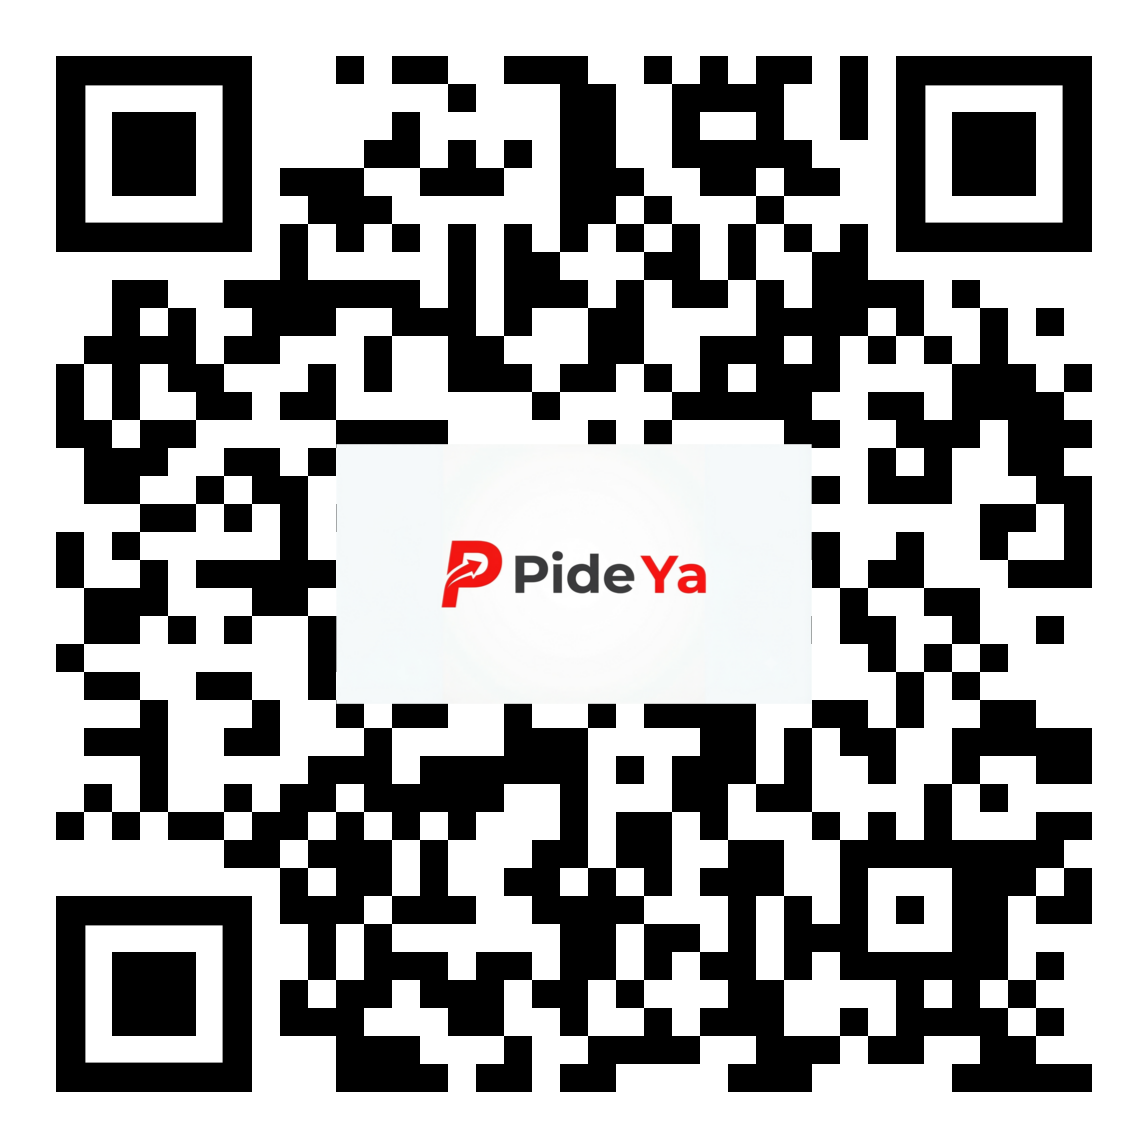
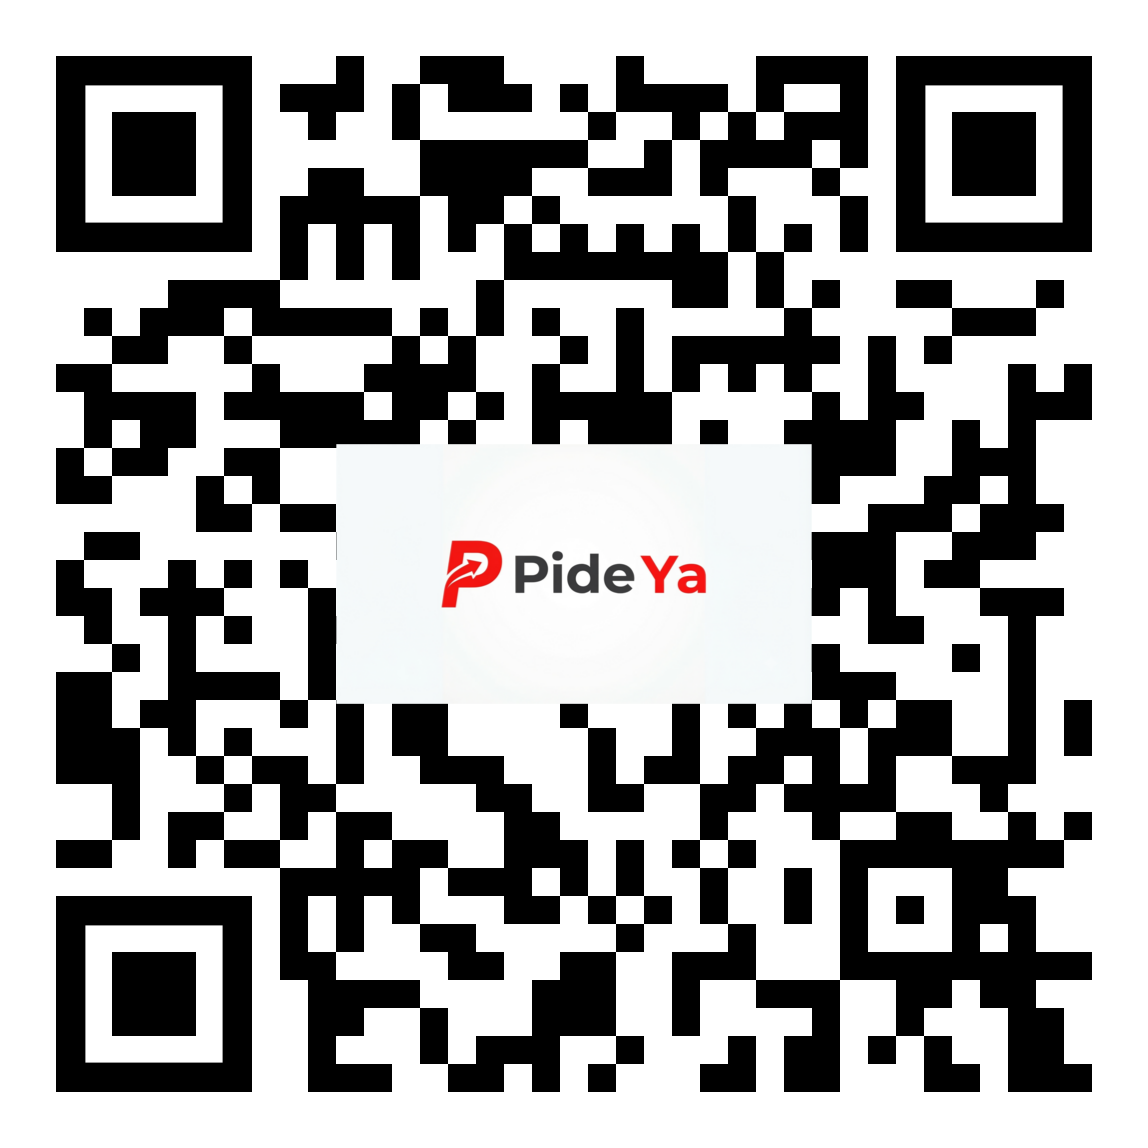
Add files via upload

Changed region(s): [[0.0305, 0.0305, 0.9756, 0.9756]]

diff --git a/index.html b/index.html
@@ -6,18 +6,19 @@
     
     <!-- Configuración Avanzada Open Graph (OG Share) - Conecta Card Oficial -->
     <meta property="og:type" content="website" />
-    <meta property="og:url" content="https://demo-dentista.pideya.contact/" />
+    <meta property="og:url" content="https://demo-cardiologia.pideya.contact/" />
     <meta property="og:title" content="CLÍNICA DE CARDIOLOGIA | CONECTA CARD" />
-    <meta property="og:description" content="Expertos en salud y estética dental. Agenda tu valoración hoy y luce la sonrisa que siempre has deseado." />
+    <meta property="og:description" content="Expertos en el cuidado integral de tu salud cardiovascular. Agenda tu valoración y protege tu corazón." />
     
     <!-- Infraestructura Multimedia Premium de Imagen de Portada -->
-    <meta property="og:image" content="https://demo-dentista.pideya.contact/og_dental.jpg" />
-    <meta property="og:image:secure_url" content="https://demo-dentista.pideya.contact/og_dental.jpg" />
+    <meta property="og:image" content="https://demo-cardiologia.pideya.contact/og_corazon.jpg" />
+    <meta property="og:image:secure_url" content="https://demo-cardiologia.pideya.contact/og_corazon.jpg" />
     <meta property="og:image:type" content="image/jpeg" />
     <meta property="og:image:width" content="1080" />
     <meta property="og:image:height" content="1920" />
     
     <title>CLÍNICA DE CARDIOLOGIA | CONECTA CARD</title>
+</head>
     
     <link rel="stylesheet" href="style.css" />
     <link rel="stylesheet" href="https://cdnjs.cloudflare.com/ajax/libs/font-awesome/6.4.2/css/all.min.css">
